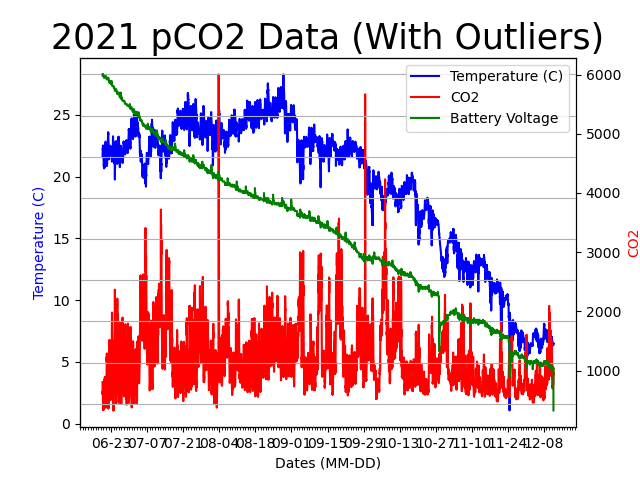
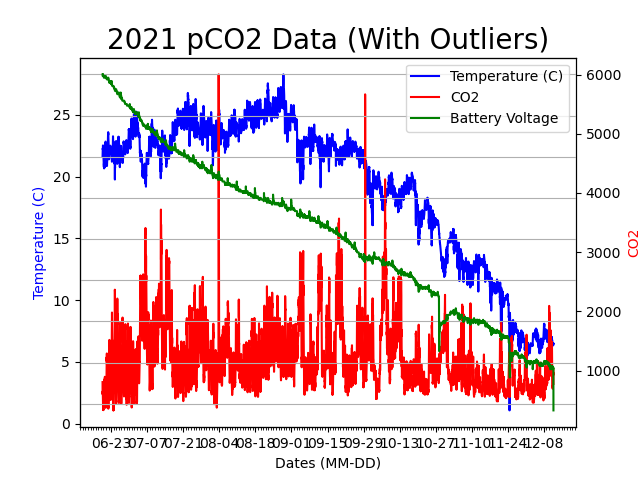
cleaned up formatting

Changed region(s): [[0.0938, 0.0312, 0.9375, 0.125]]

diff --git a/pCO2_data/Test_1_ Graph.py b/pCO2_data/Test_1_ Graph.py
@@ -10,11 +10,7 @@ from matplotlib.dates import DateFormatter
 import matplotlib.dates as mdates
 from scipy import stats
 
-# Used to hold data after outliers are removed
-x = None        # Dates
-ty = None       # Temperature
-cy = None       # CO2
-by = None       # Battery Voltage
+
 
 # Used to hold data from csv file  
 xData = []      # Dates
@@ -24,11 +20,6 @@ byData = []     # Battery Voltage
 
 # Used in taking out empty data values
 numofLines = 0
-
-# Used in Year Day conversion
-ordinalDate = []
-timeDate = []
-completeDate = []
 
 # Takes out empty data values in data set
 with open('C:\\Users\\isabe\\Source\\Repos\\icyeung\\pCO2-DataTrue\\pCO2_data\\completeData.csv','r') as csvfile:
@@ -88,8 +79,7 @@ def timeConverter (date):
 
 # Converts all dates in Year Day to 0001-MM-DD HH:MM:SS    
 for date in xData:
-    dt = datetime.datetime.combine(datetime.date.fromordinal(math.trunc(date)), timeConverter(date))
-    completeDate.append(dt)
+    datetime.datetime.combine(datetime.date.fromordinal(math.trunc(date)), timeConverter(date))
 
 # Graph plotter function
 # Provide date, temperature, CO2, and battery data
@@ -128,14 +118,14 @@ def grapher(time, tempC, CO2, batteryV, name):
     ax3.yaxis.label.set_color(p3[0].get_color())
 
     # Sets title, adds a grid, and shows legend
-    plt.title(name, fontsize = 25)
+    plt.title(name, fontsize = 20)
     plt.grid(True)
     plt.legend(handles=p1+p2+p3)
 
-    return plt
+    return
 
 # Plots graph without outliers
-grapher(completeRowData.get("Date"), completeRowData.get("Temp"), completeRowData.get("CO2"), completeRowData.get("Battery"), "2021 pCO2 Data (Without Outliers)")
+grapher(completeRowData.get("Date"), completeRowData.get("Temp"), completeRowData.get("CO2"), completeRowData.get("Battery"), "2021 pCO2 Data (No Outliers)")
 
 # Saves without outliers graph to specified name in pCO2_data folder
 plt.savefig('pCO2_2021_Graph_No_Outliers.png')
@@ -143,7 +133,7 @@ plt.savefig('pCO2_2021_Graph_No_Outliers.png')
 # Plots graph with outliers
 grapher(xData, tyData, cyData, byData, "2021 pCO2 Data (With Outliers)")
 
-# Saves without outliers graph to specified name in pCO2_data folder
+# Saves with outliers graph to specified name in pCO2_data folder
 plt.savefig('pCO2_2021_Graph_With_Outliers.png')
 
 # Displays figures
